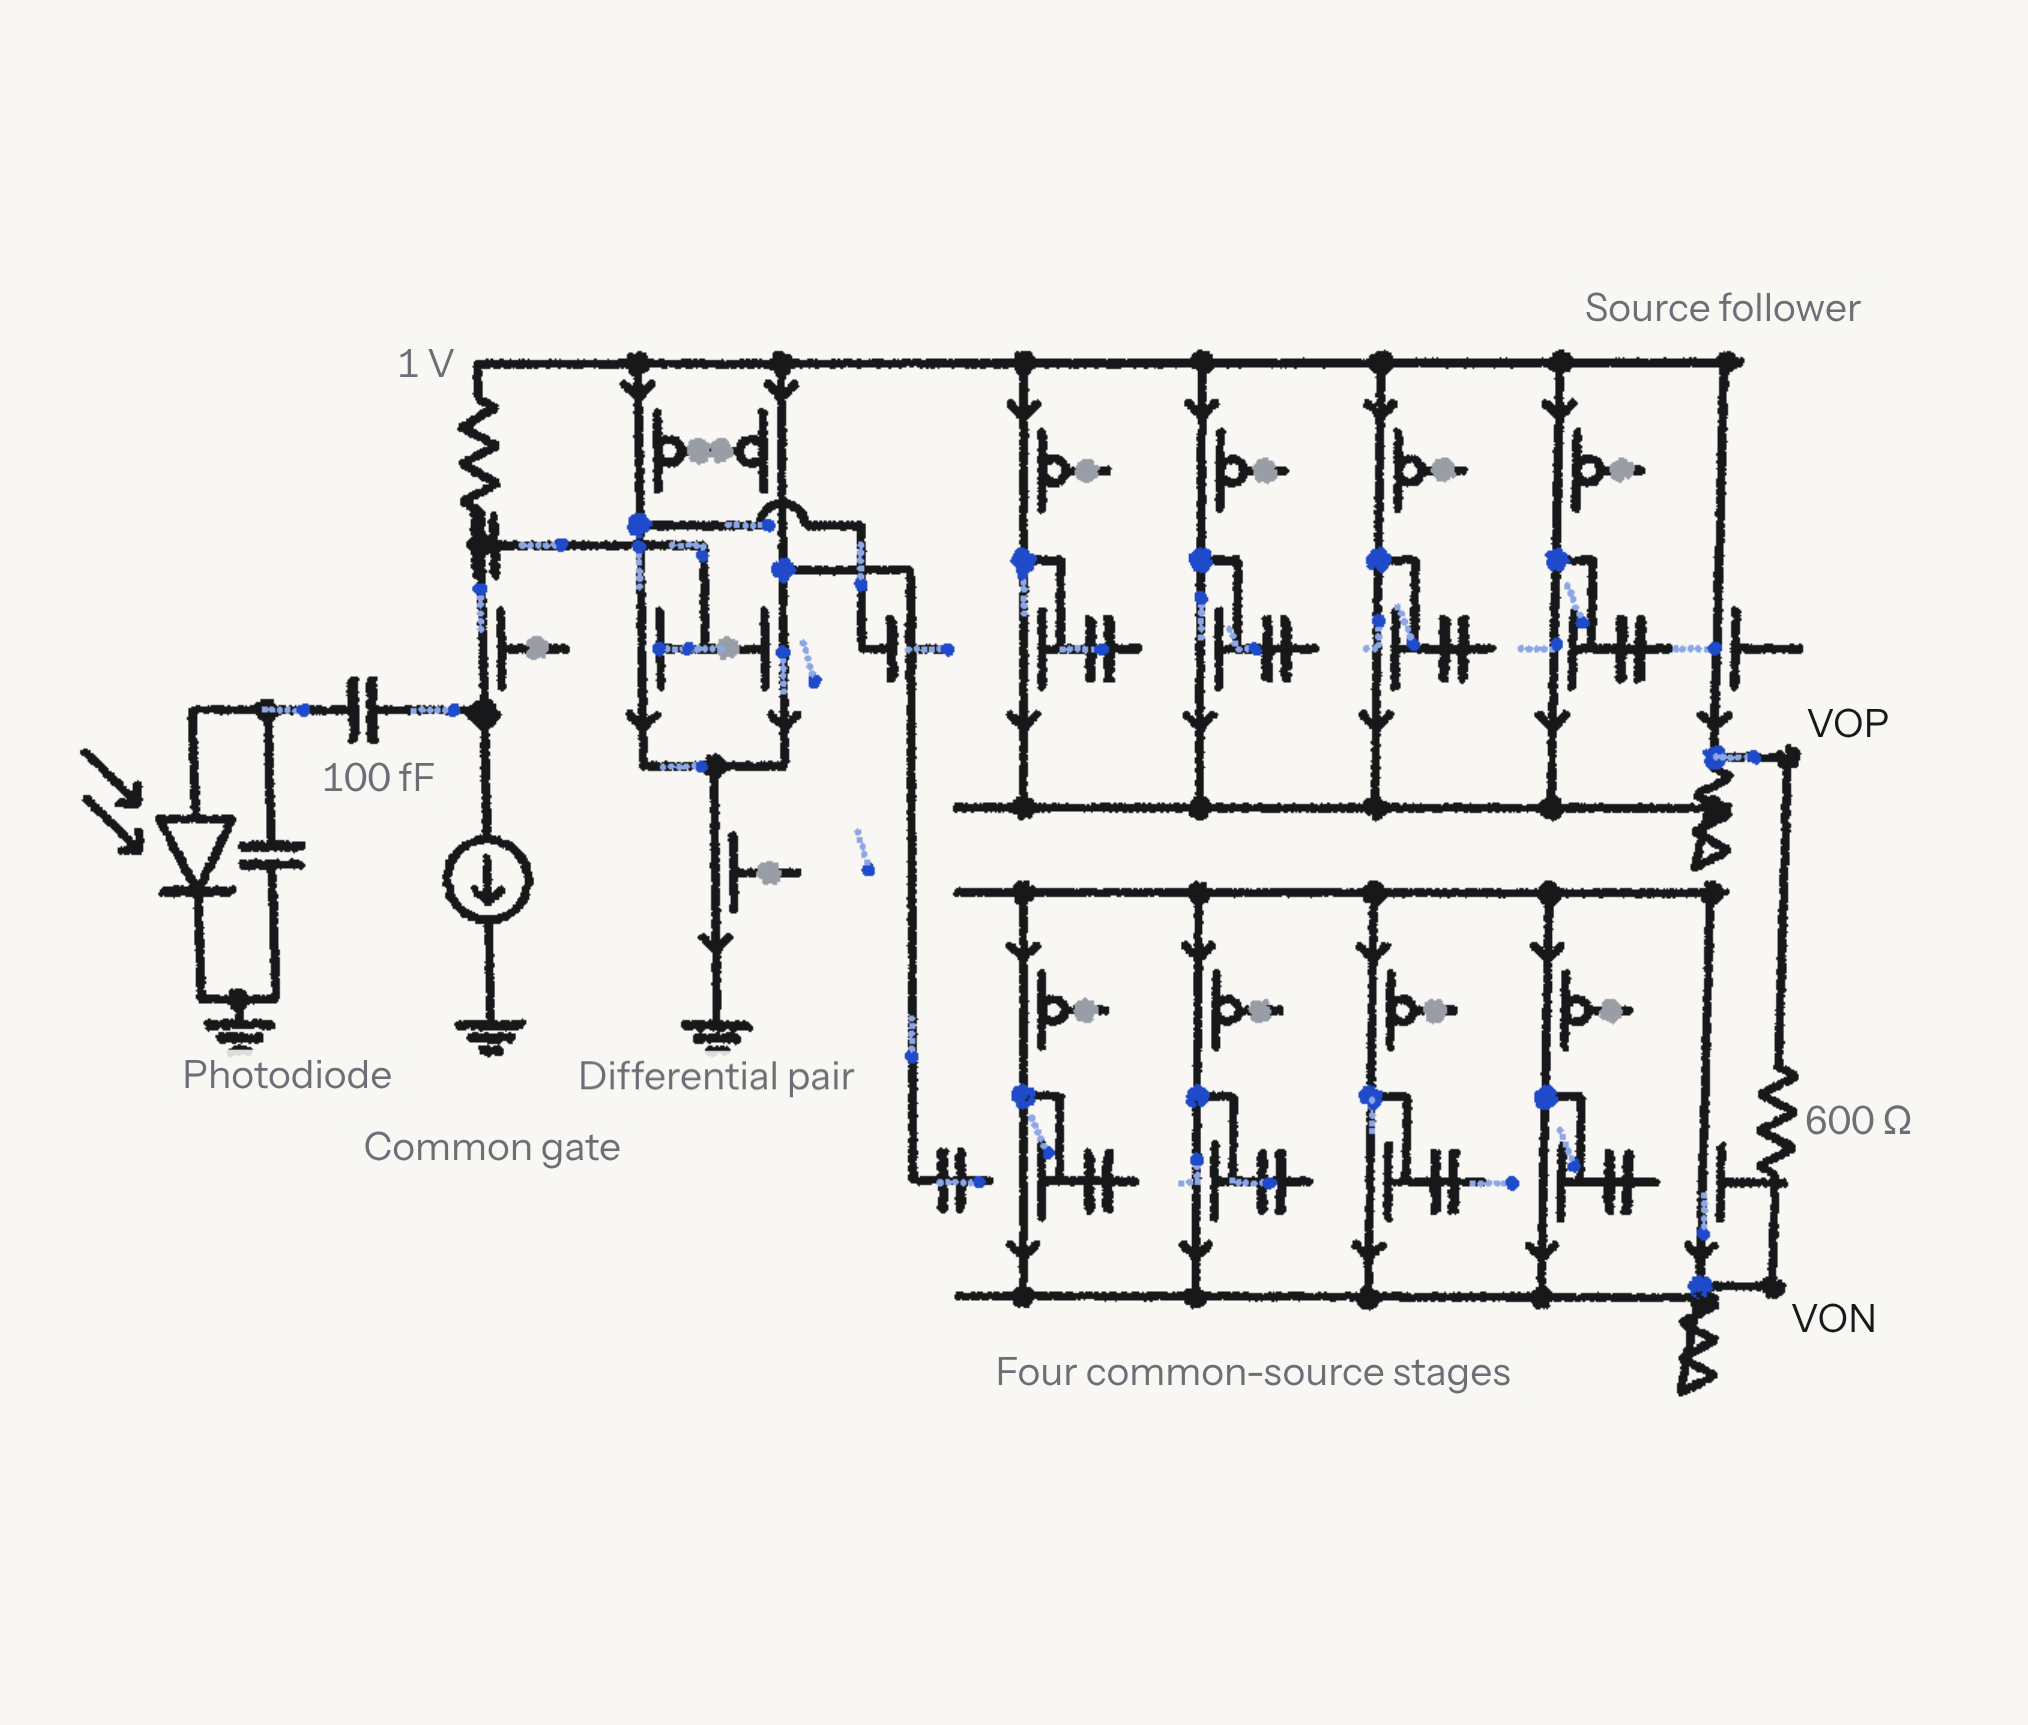
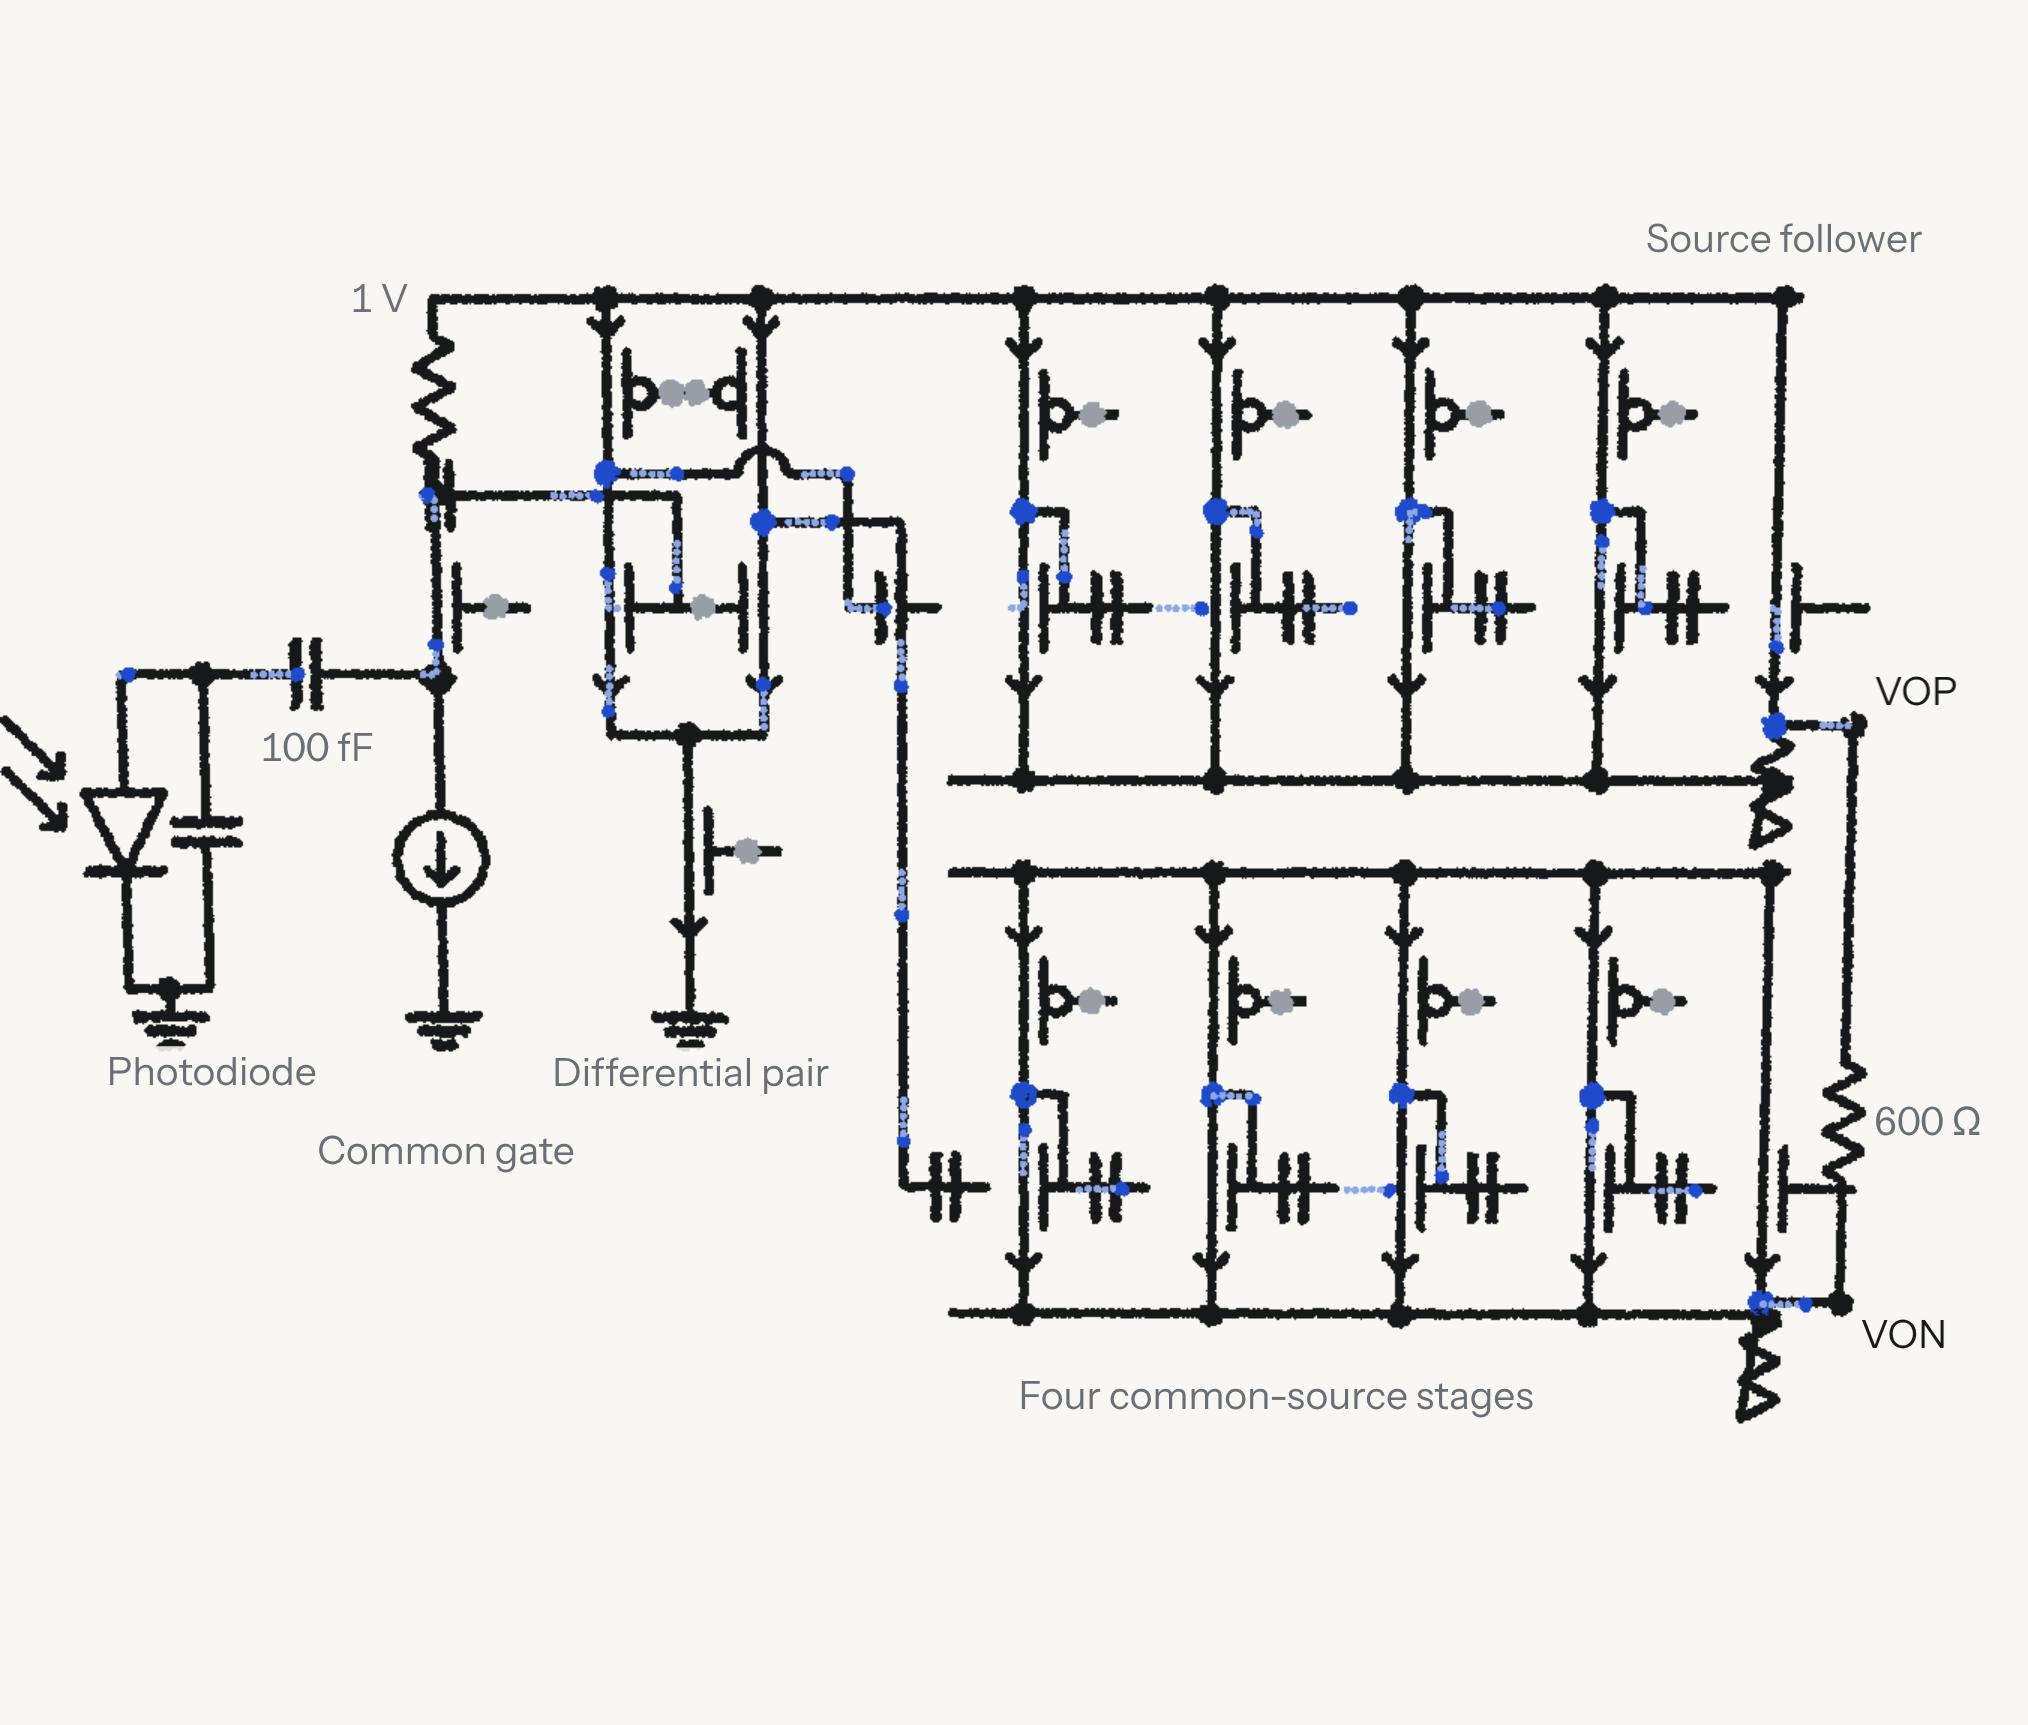
TIA schematic: beads follow the wires through the VN corner and each stage stub; static figures re-captured
Two beads on the N path cut diagonally across empty space from the VN node to the lower drop wire, and every common-source node cut a small corner before the coupling cap. Both paths now include the wire corners. Figures re-captured and cropped to the existing 2028x1725 size.

Claude-Session: https://claude.ai/code/session_018LMzagV9NcEfjj8oFWPqm4

Changed region(s): [[0.0, 0.1229, 0.963, 0.8296], [0.932, 0.7681, 0.963, 0.7988]]

diff --git a/assets/js/cloud.js b/assets/js/cloud.js
@@ -321,7 +321,7 @@
         node = [n.top[0], (n.top[1] + p.bot[1]) / 2]; W(parts, n.top, p.bot, color); dot(parts, node, BLUE);
         W(parts, p.top, [p.top[0], P(0, yRail)[1]], color); W(parts, n.bot, [n.bot[0], P(0, yGnd)[1]], color); dot(parts, [p.top[0], P(0, yRail)[1]], color); dot(parts, [n.bot[0], P(0, yGnd)[1]], color);
         path.push([n.top[0], g[1]], node);
-        prev = [node[0] + 0.14, node[1]]; W(parts, node, prev, color);
+        prev = [node[0] + 0.14, node[1]]; W(parts, node, prev, color); path.push(prev);
       });
       // source follower
       var xS = 3.18, g = P(xS - 0.32, yN), cA = [prev[0], g[1]], cB = [prev[0] + 0.3, g[1]];
@@ -342,7 +342,7 @@
     // The signal path from the photodiode to the pair, shared by both chains
     var head = [P(xPD, yIn), [t0.bot[0], P(0, yIn)[1]], t0.top, cgOut, c2b, [tA.gate[0] - 0.08, c2b[1]], [tA.gate[0] - 0.08, tA.gate[1]], tA.gate, [tA.top[0], tA.gate[1]], vp, [xHop, vp[1]], [xDrop, vp[1]]];
     pathP = head.concat(pathP);
-    pathN = [tA.gate, [tA.top[0], tA.gate[1]], [tA.bot[0], tail[1]], [tB.bot[0], tail[1]], [tB.top[0], tail[1]], vn].concat(pathN);
+    pathN = [tA.gate, [tA.top[0], tA.gate[1]], [tA.bot[0], tail[1]], [tB.bot[0], tail[1]], [tB.top[0], tail[1]], vn, [xDropN, vn[1]]].concat(pathN);
     // Flow particles: blue dots that run along both paths (their positions are set each frame)
     var flows = [{ path: pathP, n: 20 }, { path: pathN, n: 14 }];
     flows.forEach(function (f, i) { f.name = "flow" + i; f.per = 12; parts.push({ name: f.name, n: f.n * f.per, emit: function (k) { var tail = k % f.per >= 7; return [0, 0, 0.03, tail ? BLUE2 : BLUE, (tail ? 1.1 : 1.6) * COV]; } }); });
